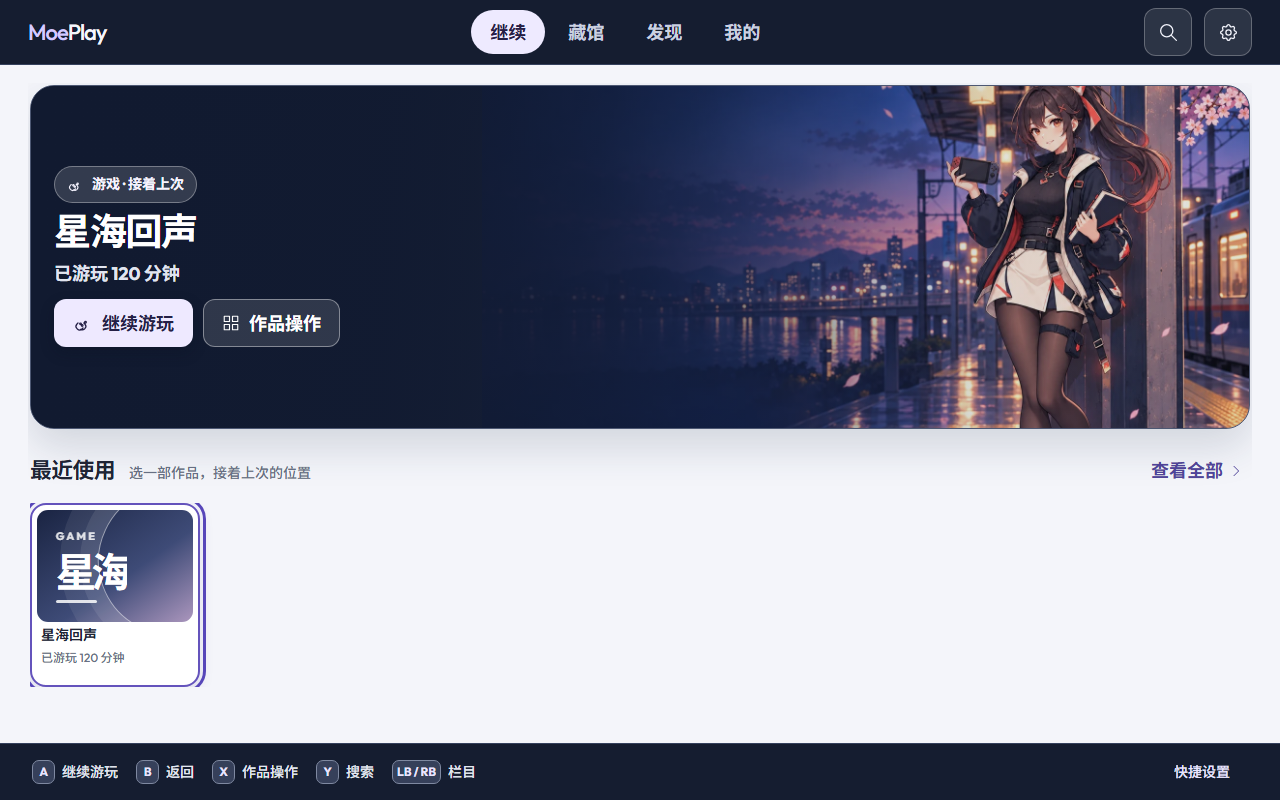
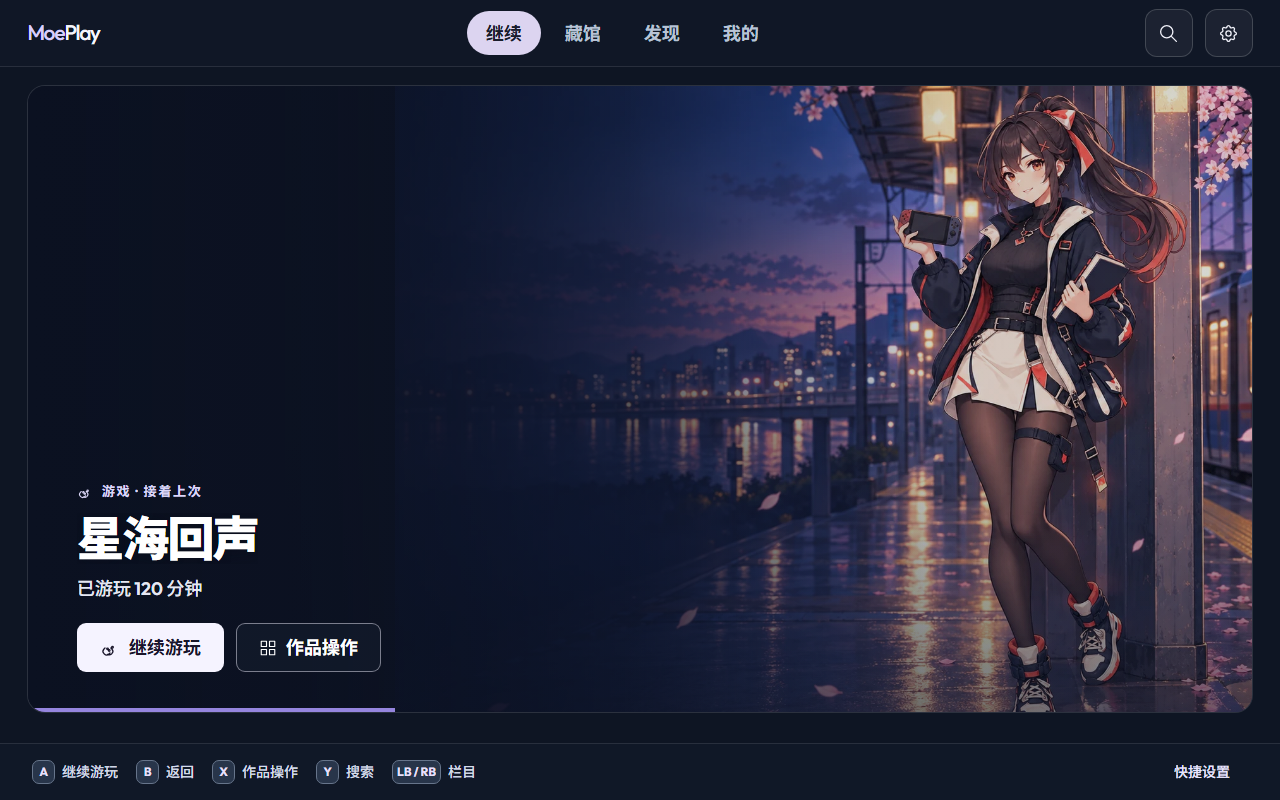
feat: #45 发布 Windows 掌机界面 v0.24.6
Windows-only v0.24.6 release preparation; deployment tracked in #45.

diff --git a/update-server/site/site.js b/update-server/site/site.js
@@ -3,6 +3,23 @@ const el = id => document.getElementById(id);
 const size = bytes => `${(bytes / 1024 / 1024).toFixed(1)} MB`;
 const labels = { installer: "Windows · EXE 安装版", msi: "Windows · MSI", portable: "Windows · Portable ZIP", release: "Android · 正式 Release", compat: "Android · 旧签名兼容包" };
 const assetUrl = (version, file) => `/downloads/${encodeURIComponent(version)}/${encodeURIComponent(file)}`;
+async function previousAndroidRelease(currentVersion) {
+  const response = await fetch("/versions.json", { cache: "no-store" });
+  if (!response.ok) return null;
+  const versions = await response.json();
+  if (!Array.isArray(versions)) return null;
+  const number = version => version.split(".").reduce((value, part) => value * 1000 + Number(part), 0);
+  const candidates = versions.filter(version => /^\d+\.\d+\.\d+$/.test(version) && number(version) < number(currentVersion))
+    .sort((left, right) => number(right) - number(left));
+  for (const version of candidates) {
+    const archive = await fetch(`/versions/${version}/release-manifest.json`, { cache: "no-store" });
+    if (!archive.ok) continue;
+    const manifest = await archive.json();
+    const asset = manifest.assets?.find(item => item.platform === "android" && item.channel === "release" && typeof item.file === "string" && !/[\\/]/.test(item.file));
+    if (asset) return { version, asset };
+  }
+  return null;
+}
 function hasBoundAndroidCoverage(release, assets, channel) {
   const evidence = release.androidVerification?.[channel] ?? release.androidUpgradeReports?.[channel] ?? release.androidReports?.[channel];
   const report = evidence?.report ?? evidence;
@@ -34,6 +51,15 @@ async function loadRelease() {
       const asset = assets.find(a => a.channel === channel); if (!asset) continue;
       el(id).href = assetUrl(release.version, asset.file);
       el(id).querySelector("small").textContent = `v${release.version} · ${size(asset.size)} · ${asset.architecture.toUpperCase()}`;
+    }
+    if (!assets.some(asset => asset.platform === "android" && asset.channel === "release")) {
+      try {
+        const previous = await previousAndroidRelease(release.version);
+        if (previous) {
+          el("android-download").href = assetUrl(previous.version, previous.asset.file);
+          el("android-download").querySelector("small").textContent = `v${previous.version} · Android 上一版`;
+        }
+      } catch { /* Keep the GitHub release list as the fallback. */ }
     }
     for (const note of release.notes ?? []) { const li = document.createElement("li"); li.textContent = note; el("release-notes").append(li); }
     for (const asset of assets) {

diff --git a/tests/visual/download-site.spec.ts b/tests/visual/download-site.spec.ts
@@ -42,3 +42,17 @@ test("manifest failure retains working GitHub download links", async ({ page }) 
   await expect(page.locator("#release-status")).toContainText("GitHub 备用");
   await expect(page.locator("#windows-download")).toHaveAttribute("href", "https://github.com/sgyxyx-prog/moeplay-tauri/releases");
 });
+
+test("Windows-only release links the previous Android package with its actual version", async ({ page }) => {
+  await page.route(`${baseURL}/release-manifest.json`, route => route.fulfill({ json: {
+    schemaVersion: 1, version: "0.24.6", commit: "a".repeat(40), publishedAt: "2026-09-29T00:00:00Z",
+    assets: [{ channel: "installer", platform: "windows", architecture: "x64", file: "MoeGame_0.24.6_x64-setup.exe", size: 100, sha256: "a".repeat(64) }],
+  } }));
+  await page.route("**/versions.json", route => route.fulfill({ json: ["0.24.5", "0.24.6"] }));
+  await page.route("**/versions/0.24.5/release-manifest.json", route => route.fulfill({ json: {
+    version: "0.24.5", assets: [{ channel: "release", platform: "android", file: "MoeGame_0.24.5_arm64-release.apk" }],
+  } }));
+  await page.goto(baseURL);
+  await expect(page.locator("#android-download")).toHaveAttribute("href", "/downloads/0.24.5/MoeGame_0.24.5_arm64-release.apk");
+  await expect(page.locator("#android-download small")).toContainText("v0.24.5");
+});

diff --git a/update-server/deploy/test_activate.py b/update-server/deploy/test_activate.py
@@ -72,6 +72,22 @@ class DeploymentTests(unittest.TestCase):
         self.assertIn("Missing release channel", result.stderr)
         self.assertFalse((self.root / "current").exists())
 
+    def test_windows_only_patch_accepts_signed_windows_channels(self):
+        probe = self.root / "symlink-probe"
+        try:
+            probe.symlink_to("incoming", target_is_directory=True)
+            probe.unlink()
+        except OSError:
+            self.skipTest("Host does not allow symlinks; run on the Linux deployment host")
+        for asset in list(self.manifest["assets"]):
+            if asset["platform"] == "android":
+                (self.assets / asset["file"]).unlink()
+        self.manifest["assets"] = [asset for asset in self.manifest["assets"] if asset["platform"] == "windows"]
+        self.write_manifest()
+        result = self.run_deploy()
+        self.assertEqual(result.returncode, 0, result.stderr)
+        self.assertEqual((self.root / "current").readlink().as_posix(), "sites/0.23.0")
+
     def test_existing_version_preserved(self):
         existing = self.root / "sites" / "0.23.0"
         existing.mkdir(parents=True)

diff --git a/update-server/deploy/activate.py b/update-server/deploy/activate.py
@@ -185,9 +185,9 @@ for asset in manifest["assets"]:
         digest = hashlib.file_digest(stream, "sha256").hexdigest()
     if file.stat().st_size != asset["size"] or digest != asset["sha256"]:
         raise SystemExit(f"Hash mismatch: {name}")
-required_channels = {"installer", "msi", "portable", "release", "compat"}
-channels = {asset.get("channel") for asset in manifest["assets"]}
-if not required_channels.issubset(channels):
+windows_channels = {asset.get("channel") for asset in manifest["assets"] if asset.get("platform") == "windows"}
+android_channels = {asset.get("channel") for asset in manifest["assets"] if asset.get("platform") == "android"}
+if not {"installer", "msi", "portable"}.issubset(windows_channels) or (android_channels and not {"release", "compat"}.issubset(android_channels)):
     raise SystemExit("Missing release channel")
 site = root / "sites" / version
 download = root / "downloads" / version

diff --git a/CHANGELOG.md b/CHANGELOG.md
@@ -1,5 +1,11 @@
 # Changelog
 
+## 0.24.6 - 2026-09-29
+
+- Windows 掌机界面统一为深色作品画布，重排继续页、藏馆、专题、发现与操作面板；单作品、少量卡片、长标题和缺图状态在 16:10 小屏保持可读。
+- 下载站更新掌机界面预览图；本次仅发布 Windows x64 安装包、MSI 和便携包。Android 继续提供 v0.24.5，不冒充本版产物。
+- 保留原有作品、专题、历史与自动更新入口；Windows 更新包继续使用现有签名。
+
 ## 0.24.0 - 2026-09-16
 
 - 播放会话支持真正取消、前台优先的解析槽位和过期结果隔离；换源最多尝试有限候选，解析失败、拒绝、超时、解码失败和无视频帧均进入可恢复错误状态。
